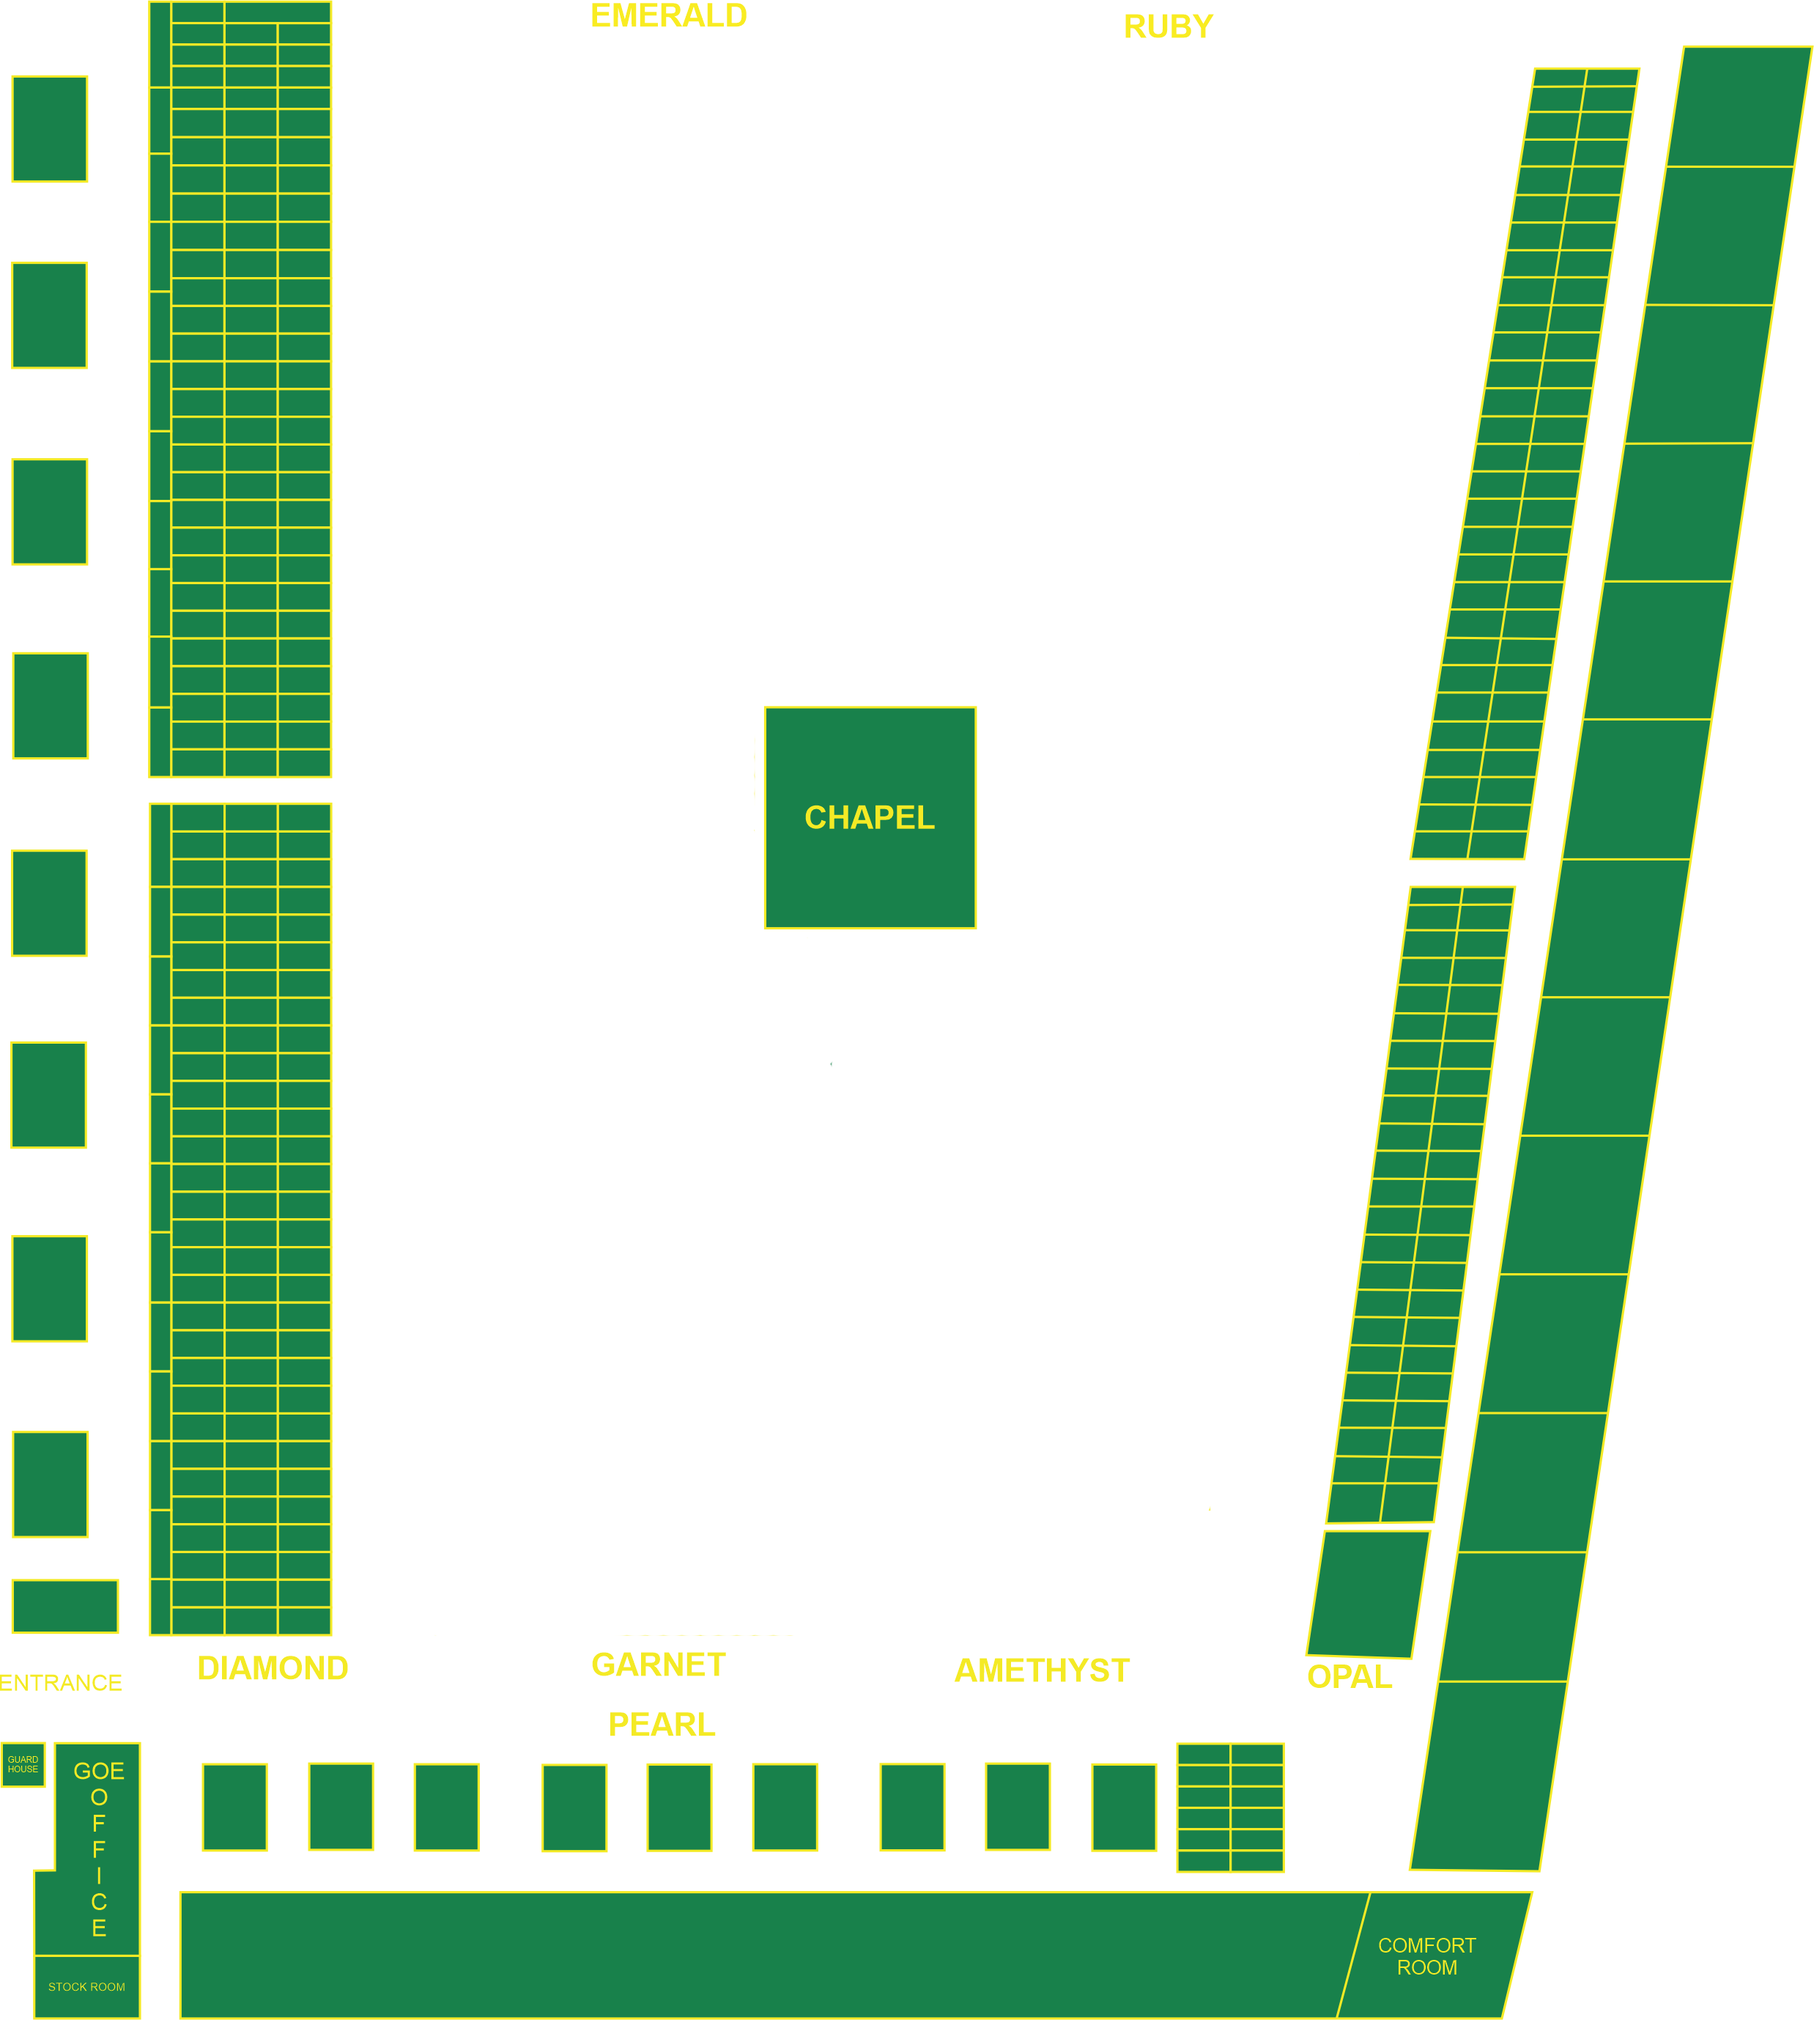
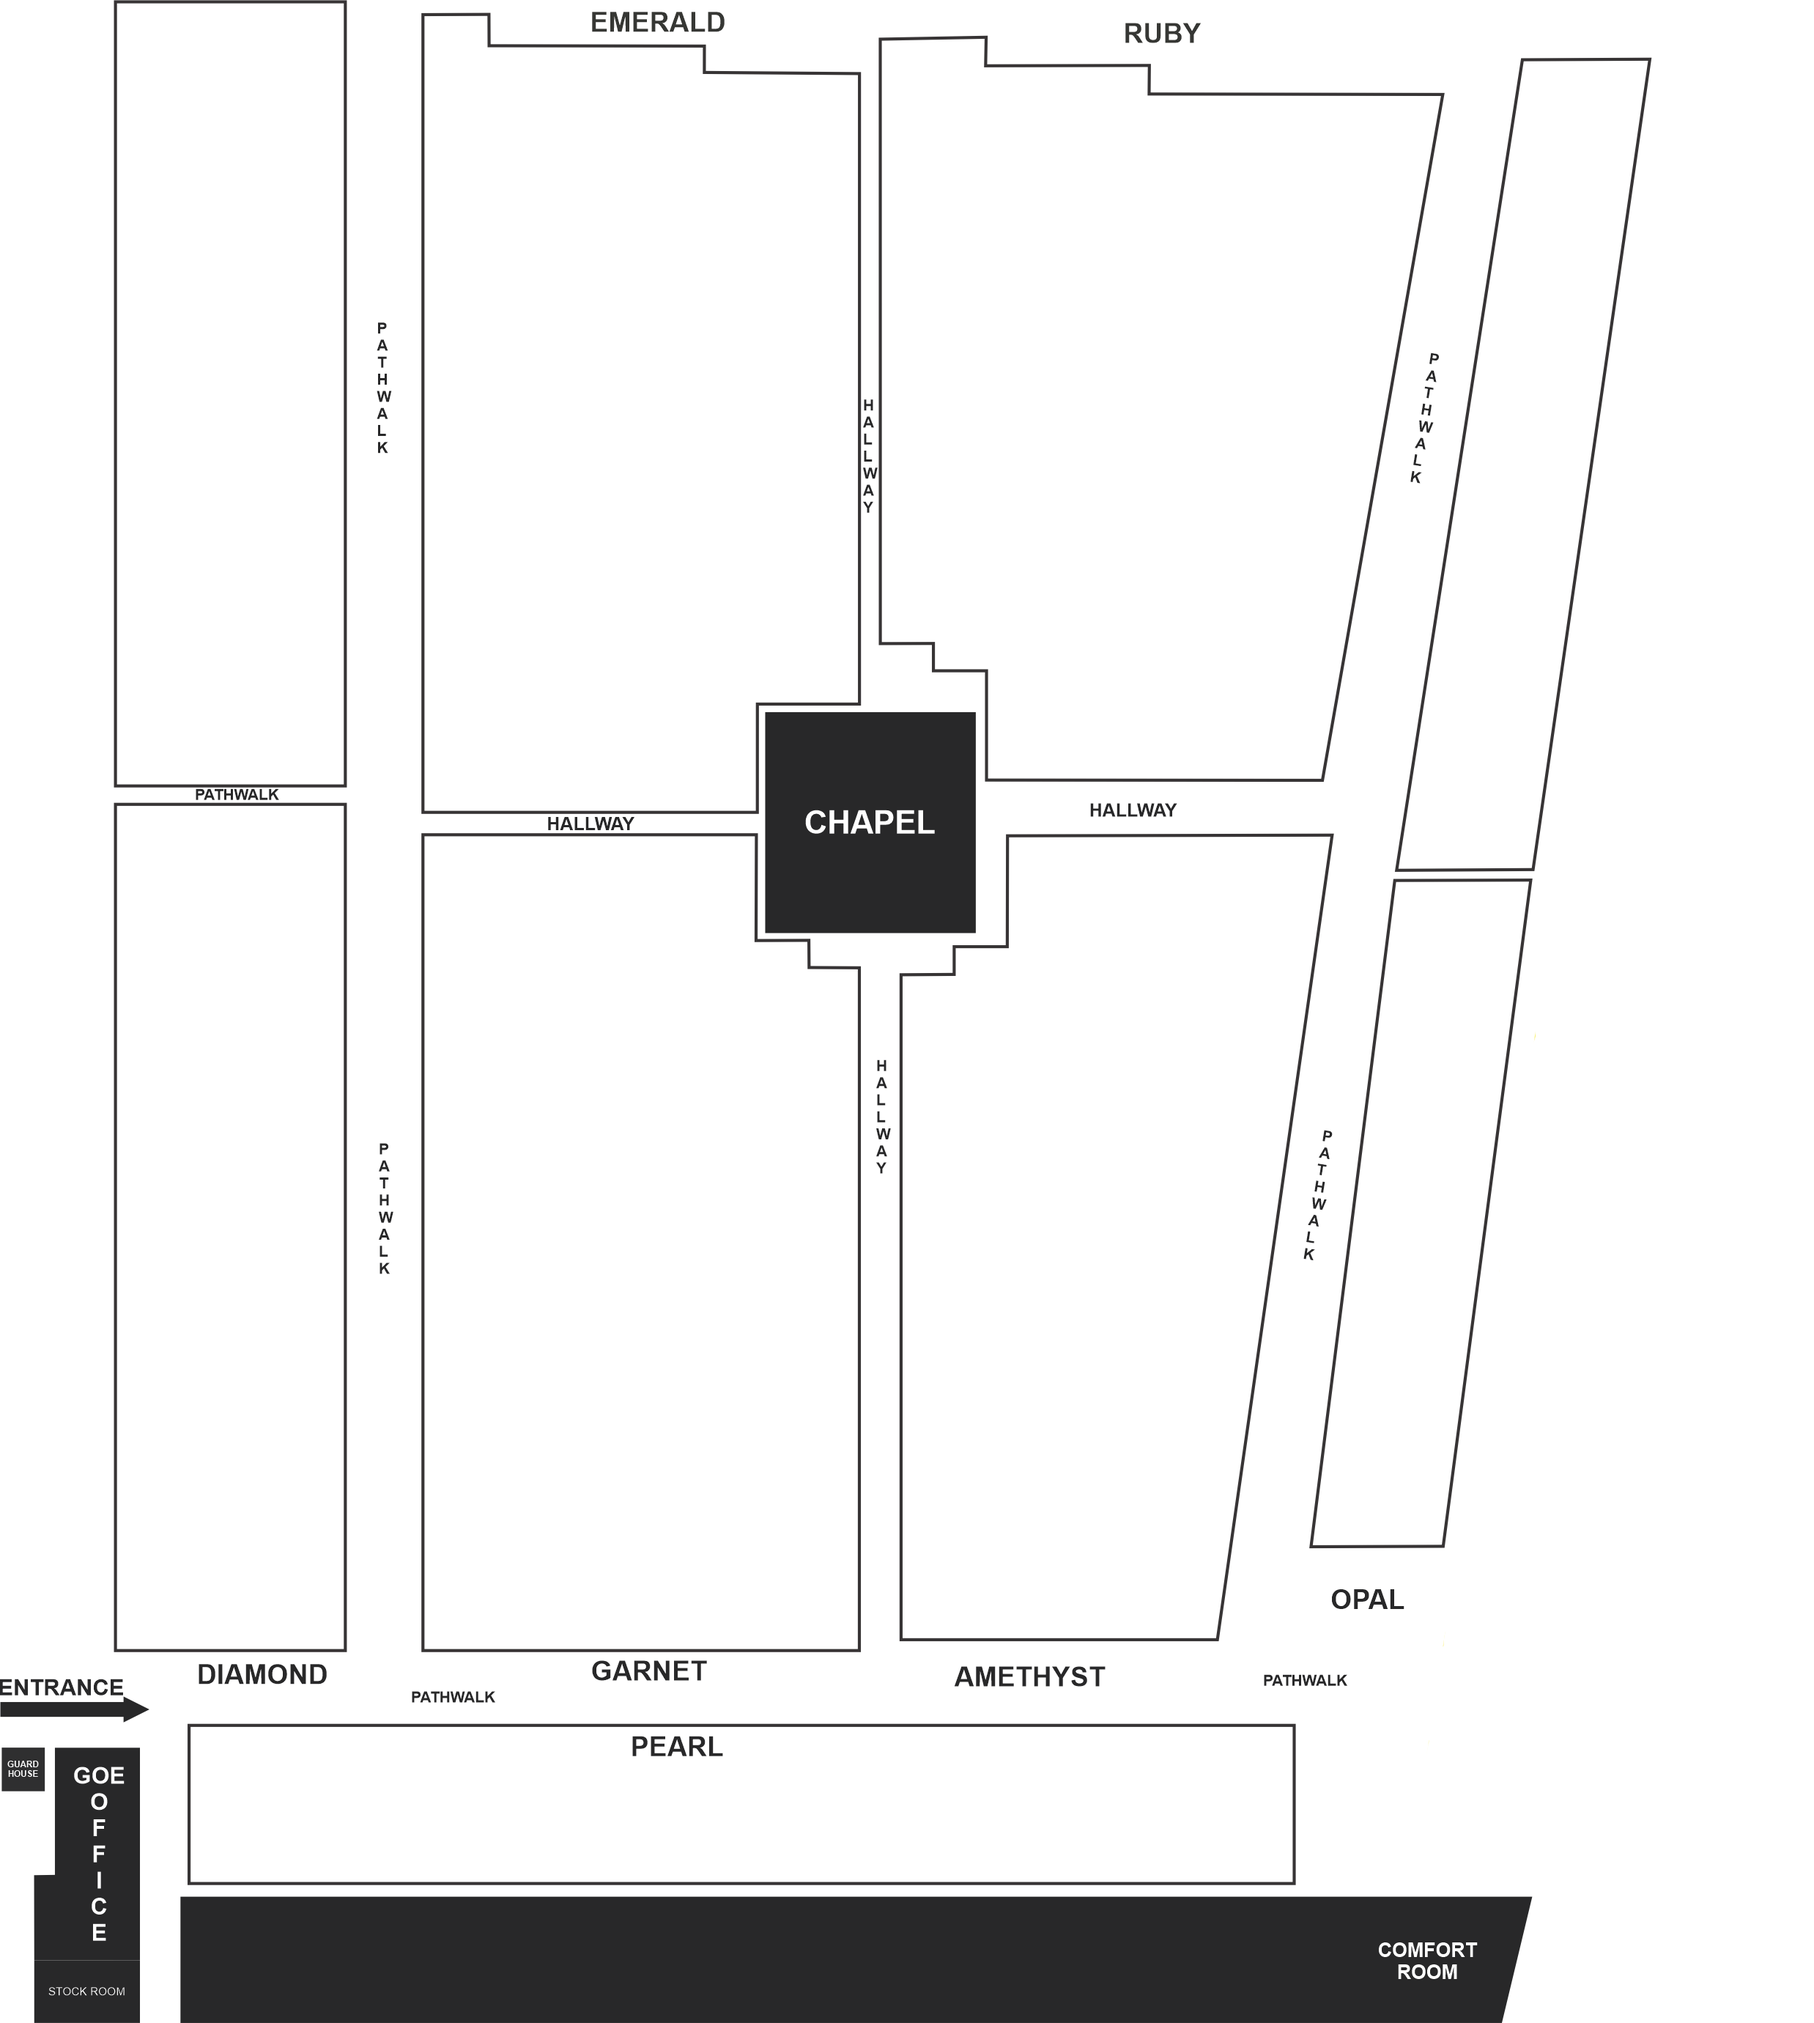
update

diff --git a/resources/views/persons/index.blade.php b/resources/views/persons/index.blade.php
@@ -11,8 +11,7 @@
 @section('content')
 <div class="container-fluid my-5">
 <h1 class="text-center font-weight-bold">MAP</h1>
-
-<div style="width: 2476px; height: 2100px;"></div>
+<img src="{{ asset('images/phase1.png') }}" class="img-fluid">
 </div>
    <div class="container-fluid my-5">
         @if ($message = Session::get('success'))
@@ -23,29 +22,25 @@
         <div class="row">
                 @foreach ($lots as $lot)
                 <div class="col-sm-4 my-2">
-                    <h3 class="font-weight-bold text-center d-none">{{ $lot->name }}</h3>
+                    <h3 class="font-weight-bold text-center" style="opacity: 0;">{{ $lot->name }}</h3>
                     <div class="p-4 rounded-lg ">
-                    <p class="font-weight-light text-center text-white d-none">Sectors</p>
-                    <div style="width: 50px; height: 50px;"></div>
+                    <p class="font-weight-light text-center text-white" style="opacity: 0;">Sectors</p>
                         <div class="row">
                             @foreach ($lot->sectors as $sector)
                             <div class="col-sm-6">
-                            <div style="width: 50px; height: 50px;"></div>
-                                    <a href="{{ route('sectors.graves', $sector) }}" class="btn btn-sm btn-primary d-none">{{ $sector->name }}</a>
-                                
+                                    <a href="{{ route('sectors.graves', $sector) }}" class="btn btn-sm btn-primary" style="opacity: 0;">{{ $sector->name }}</a>
                                 <div class="p-2 rounded-lg my-1">
-                                <div style="width: 50px; height: 50px;"></div>
-                                    <p class="font-weight-light text-center text-white d-none">Graves</p>
+                                    <p class="font-weight-light text-center text-white" style="opacity: 0;">Graves</p>
                                     @foreach ($sector->graves as $grave)
                                         @if($grave->person)
-                                        <h1 class="text-center font-weight-bold grave" style="left: 530px; top: -2200px;">EMERALD</h1>
+                                        <!-- <h1 class="text-center font-weight-bold grave" style="left: 530px; top: -2200px;">EMERALD</h1>
                                         <h1 class="text-center font-weight-bold grave" style="left: 1000px; top: -2200px;">RUBY</h1>
                                         <h1 class="text-center font-weight-bold grave" style="left: 120px; top: -450px;">DIAMOND</h1>
                                         <h1 class="text-center font-weight-bold grave" style="left: 500px; top: -500px;">GARNET</h1>
                                         <h1 class="text-center font-weight-bold grave" style="left: 1000px; top: -500px;">AMETHYST</h1>
                                         <h1 class="text-center font-weight-bold grave" style="left: 1350px; top: -550px;">OPAL</h1>
                                         <h1 class="text-center font-weight-bold grave" style="left: 600px; top: -350px;">PEARL</h1>
-                                        <h1 class="text-center font-weight-bold grave border p-5" style="left: 770px; top: -1400px;">CHAPEL</h1>
+                                        <h1 class="text-center font-weight-bold grave border p-5" style="left: 770px; top: -1400px;">CHAPEL</h1> -->
                                         <a href="{{ route('persons.show', ['person' => $grave->person, 'grave_number' => $loop->iteration]) }}" class="bg-danger text-white grave text-xs" data-toggle="tooltip" data-placement="top" title="{{ $grave->person->full_name }} || {{ $grave->person->status }} || {{ $grave->person->payment }}" data-id="{{ $grave->id }}" style="width: 50px; height: 25px; left: {{ $grave->position ? explode(',', $grave->position)[0] : 0 }}px; top: {{ $grave->position ? explode(',', $grave->position)[1] : 0 }}px;">
                                                 {{ $loop->iteration }}
                                         </a>
